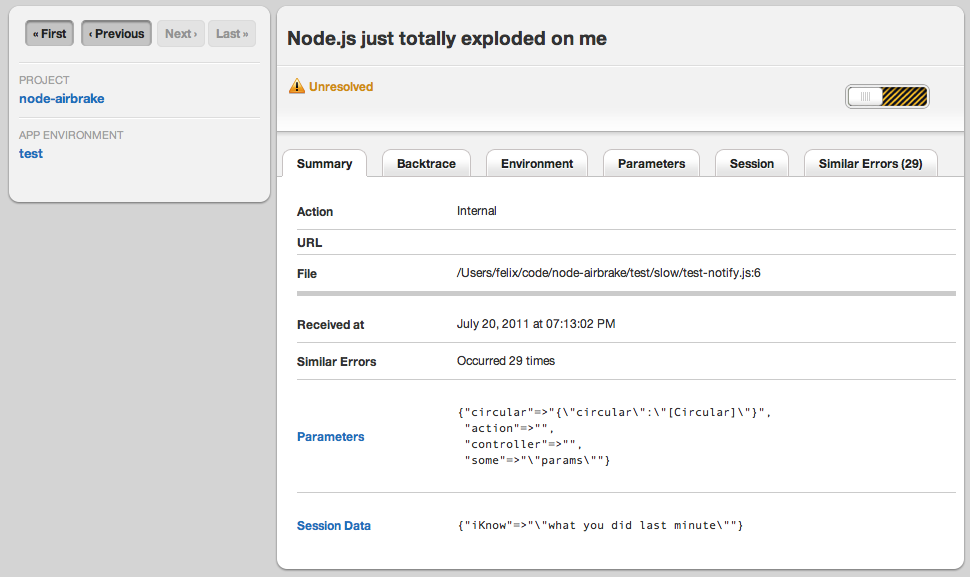
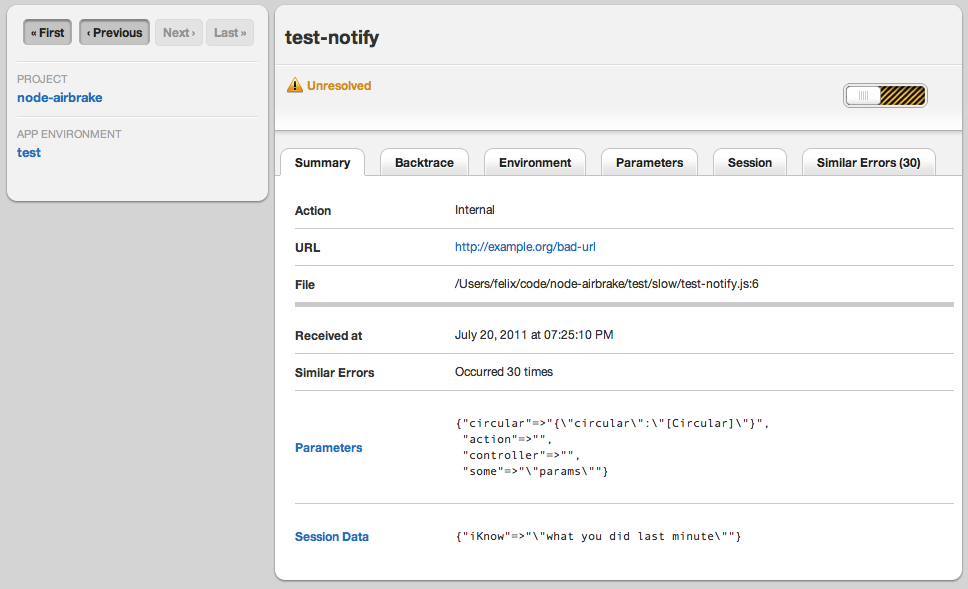
Better screenshot that shows url

diff --git a/test/slow/test-notify.js b/test/slow/test-notify.js
@@ -3,9 +3,10 @@ var airbrake = require(common.dir.root).createClient(common.key, common.env)
 var sinon = require('sinon');
 var assert = require('assert');
 
-var err = new Error('test-notify');
+var err = new Error('Node.js just totally exploded on me');
 err.env = {protect: 'the environment!'};
 err.session = {iKnow: 'what you did last minute'};
+err.url = 'http://example.org/bad-url';
 
 var circular = {};
 circular.circular = circular;
